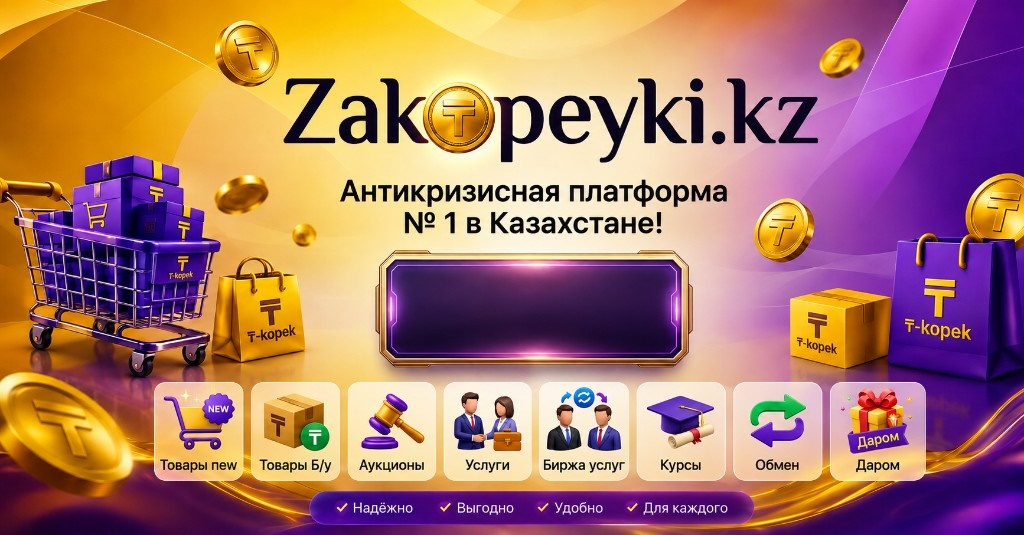
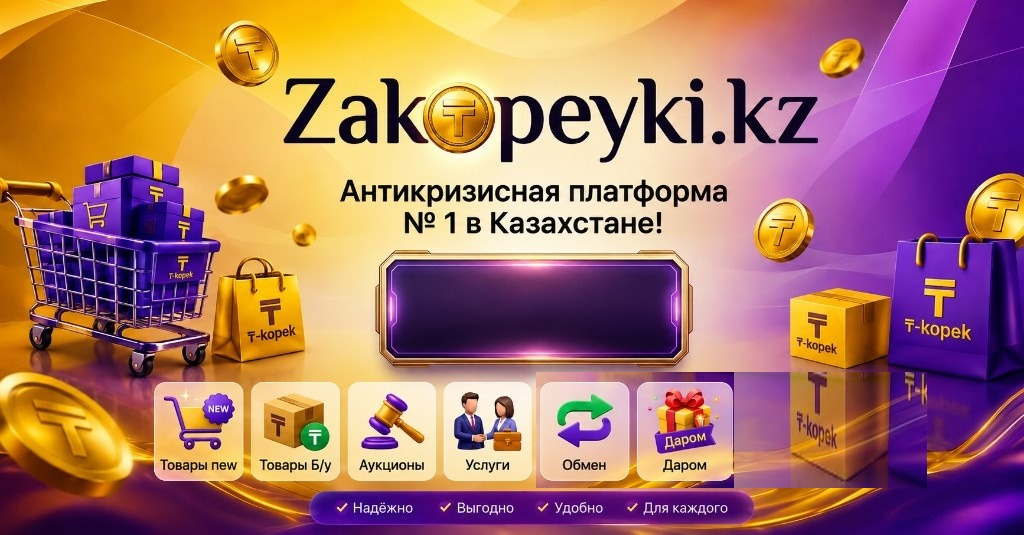
Update stub opening date to September 30, 2026, and adjust related views
This commit changes the stub opening date in the configuration and updates various views to reflect the new date. The AuthController, coming-soon view, and other relevant files have been modified to ensure consistency in messaging regarding the site's launch. Additionally, unnecessary access checks for gigs have been removed from the CatalogController and sidebar view, streamlining the code.

Changed region(s): [[0.5, 0.6879, 0.9062, 0.9271]]

diff --git a/app/Views/stub/coming-soon.php b/app/Views/stub/coming-soon.php
@@ -3,7 +3,7 @@
 use App\Helpers\ProductHelper;
 
 $heroUrl = ProductHelper::url('/public/assets/img/stub-hero.jpg');
-$opensAt = $opensAt ?? '2026-08-30 00:00:00';
+$opensAt = $opensAt ?? '2026-09-30 00:00:00';
 $opensTs = strtotime($opensAt) ?: (time() + 7 * 86400);
 $opensIso = date('Y-m-d\TH:i:sP', $opensTs);
 $loginUrl = ProductHelper::url('/login');
@@ -1203,7 +1203,7 @@ body.debug .hit {
                     <span class="cd-lbl">секунд</span>
                   </div>
                 </div>
-                <p class="cd-note">30 августа откроется сайт</p>
+                <p class="cd-note">30 сентября откроется сайт</p>
               </div>
             </div>
 
@@ -1223,9 +1223,8 @@ body.debug .hit {
                 <button type="button" class="hit hit-cat" style="left:24.53%; top:71.00%; width:8.75%; height:19.00%" data-label="Товары Б/у" aria-label="Товары Б/у"></button>
                 <button type="button" class="hit hit-cat" style="left:33.85%; top:71.00%; width:8.75%; height:19.00%" data-label="Аукционы" aria-label="Аукционы"></button>
                 <button type="button" class="hit hit-cat" style="left:43.28%; top:71.00%; width:8.75%; height:19.00%" data-label="Услуги" aria-label="Услуги"></button>
-                <button type="button" class="hit hit-cat" style="left:52.71%; top:71.00%; width:8.75%; height:19.00%" data-label="Биржа услуг" aria-label="Биржа услуг"></button>
-                <button type="button" class="hit hit-cat" style="left:71.56%; top:71.00%; width:8.75%; height:19.00%" data-label="Обмен" aria-label="Обмен"></button>
-                <button type="button" class="hit hit-cat" style="left:80.99%; top:71.00%; width:8.75%; height:19.00%" data-label="Даром" aria-label="Даром"></button>
+                <button type="button" class="hit hit-cat" style="left:52.71%; top:71.00%; width:8.75%; height:19.00%" data-label="Обмен" aria-label="Обмен"></button>
+                <button type="button" class="hit hit-cat" style="left:62.14%; top:71.00%; width:8.75%; height:19.00%" data-label="Даром" aria-label="Даром"></button>
               </nav>
             </div>
           </div>
@@ -1252,7 +1251,7 @@ body.debug .hit {
         <p class="cta-modal__eyebrow">Ранний доступ</p>
         <p class="cta-modal__title" id="cta-modal-title">Будьте среди первых</p>
         <p class="cta-modal__sub">
-          30 августа открываем сайт. Зарегистрируйтесь заранее — и встретьте запуск во всеоружии.
+          30 сентября открываем сайт. Зарегистрируйтесь заранее — и встретьте запуск во всеоружии.
         </p>
         <a class="cta-modal__btn" href="<?= htmlspecialchars($registerUrl) ?>">
           Создать аккаунт

diff --git a/app/Views/home/index.php b/app/Views/home/index.php
@@ -71,19 +71,16 @@ $changelog = $changelog ?? null;
         <?php endif; ?>
     </div>
 
-    <div class="grid grid-cols-2 sm:grid-cols-3 <?= Auth::canAccessGigs() ? 'lg:grid-cols-7' : 'lg:grid-cols-6' ?> gap-2 sm:gap-2.5">
+    <div class="grid grid-cols-2 sm:grid-cols-3 lg:grid-cols-6 gap-2 sm:gap-2.5">
         <?php
         $cats = [
             ['url' => '/catalog/new', 'label' => t('home.cat_new'), 'tone' => 'from-blue-50 to-indigo-50', 'img' => 'cat-new.png'],
             ['url' => '/catalog/used', 'label' => t('home.cat_used'), 'tone' => 'from-orange-50 to-amber-50', 'img' => 'cat-used.png'],
             ['url' => '/auctions', 'label' => t('home.cat_auctions'), 'tone' => 'from-accent-50 to-orange-50', 'img' => 'cat-auctions.png'],
             ['url' => '/catalog/services', 'label' => t('home.cat_services'), 'tone' => 'from-slate-50 to-brand-50', 'img' => 'cat-services.png'],
+            ['url' => '/catalog/exchange', 'label' => t('home.cat_exchange'), 'tone' => 'from-brand-50 to-sky-50', 'img' => 'cat-exchange.png'],
+            ['url' => '/catalog/free', 'label' => t('home.cat_free'), 'tone' => 'from-sky-50 to-blue-50', 'img' => 'cat-free.png'],
         ];
-        if (Auth::canAccessGigs()) {
-            $cats[] = ['url' => '/catalog/gigs', 'label' => t('home.cat_gigs'), 'tone' => 'from-teal-50 to-emerald-50', 'img' => 'cat-gigs.png'];
-        }
-        $cats[] = ['url' => '/catalog/exchange', 'label' => t('home.cat_exchange'), 'tone' => 'from-brand-50 to-sky-50', 'img' => 'cat-exchange.png'];
-        $cats[] = ['url' => '/catalog/free', 'label' => t('home.cat_free'), 'tone' => 'from-sky-50 to-blue-50', 'img' => 'cat-free.png'];
         foreach ($cats as $c): ?>
             <a href="<?= ProductHelper::url($c['url']) ?>" class="group min-w-0 bg-gradient-to-br <?= $c['tone'] ?> dark:from-white/[0.06] dark:to-white/[0.02] px-1.5 py-3 sm:px-2 sm:py-3.5 rounded-2xl border border-black/[0.05] dark:border-white/10 text-center hover:border-brand-400/50 hover:shadow-soft hover:-translate-y-0.5 transition duration-300 block">
                 <span class="flex items-center justify-center mb-1 transition duration-300 group-hover:scale-110">

diff --git a/app/Views/partials/sidebar.php b/app/Views/partials/sidebar.php
@@ -46,11 +46,6 @@ $navIcon = static fn (string $name): string => IconHelper::svg($name, 'w-[18px] 
         <a href="<?= ProductHelper::url('/catalog/services') ?>" class="nav-item w-full flex items-center gap-3 px-3.5 py-2.5 text-sm rounded-xl transition <?= navClass('services', $nav) ?>">
             <?= $navIcon('wrench') ?> <span><?= htmlspecialchars(t('nav.services')) ?></span>
         </a>
-        <?php if (Auth::canAccessGigs()): ?>
-        <a href="<?= ProductHelper::url('/catalog/gigs') ?>" class="nav-item w-full flex items-center gap-3 px-3.5 py-2.5 text-sm rounded-xl transition <?= navClass('services_board', $nav) ?>">
-            <?= $navIcon('briefcase') ?> <span><?= htmlspecialchars(t('nav.services_board')) ?></span>
-        </a>
-        <?php endif; ?>
         <a href="<?= ProductHelper::url('/catalog/exchange') ?>" class="nav-item w-full flex items-center gap-3 px-3.5 py-2.5 text-sm rounded-xl transition <?= navClass('exchange', $nav) ?>">
             <?= $navIcon('exchange') ?> <span><?= htmlspecialchars(t('nav.exchange')) ?></span>
         </a>

diff --git a/app/Controllers/CatalogController.php b/app/Controllers/CatalogController.php
@@ -24,13 +24,8 @@ class CatalogController extends Controller
 
     public function show(string $section): void
     {
-        if ($section === 'courses') {
+        if ($section === 'courses' || $section === 'gigs') {
             $this->redirect('/');
-            return;
-        }
-        if ($section === 'gigs' && !Auth::canAccessGigs()) {
-            http_response_code(404);
-            $this->view('errors/404', ['title' => t('catalog.not_found')]);
             return;
         }
         if (!isset($this->pages[$section])) {

diff --git a/app/Controllers/AuthController.php b/app/Controllers/AuthController.php
@@ -209,7 +209,7 @@ class AuthController extends Controller
 
         $appConfig = $GLOBALS['appConfig'] ?? [];
         if (!empty($appConfig['stub_mode']) && !Auth::hasSiteAccess()) {
-            $_SESSION['stub_flash'] = 'Регистрация прошла успешно! Мы откроемся 30 августа.';
+            $_SESSION['stub_flash'] = 'Регистрация прошла успешно! Мы откроемся 30 сентября.';
             $this->redirect('/');
         }
 

diff --git a/index.php b/index.php
@@ -90,7 +90,7 @@ if (!empty($appConfig['stub_mode']) && !\App\Core\Auth::hasSiteAccess(true)) {
     if (!$stubOk) {
         \App\Core\View::render('stub/coming-soon', [
             'title' => 'Скоро открытие',
-            'opensAt' => (string) ($appConfig['stub_opens_at'] ?? '2026-08-06 00:00:00'),
+            'opensAt' => (string) ($appConfig['stub_opens_at'] ?? '2026-09-30 00:00:00'),
         ], '');
         exit;
     }

diff --git a/config/app.php b/config/app.php
@@ -17,5 +17,5 @@ return [
     // Можно переключить в админке (/admin) — значение пишется в таблицу settings.
     // Fallback, если в БД ещё нет ключа stub_mode: true = закрыт.
     'stub_mode' => true,
-    'stub_opens_at' => '2026-08-30 00:00:00',
+    'stub_opens_at' => '2026-09-30 00:00:00',
 ];

diff --git a/app/Helpers/ProductHelper.php b/app/Helpers/ProductHelper.php
@@ -33,10 +33,7 @@ class ProductHelper
     public static function marketplaceTypes(): array
     {
         $types = self::TYPES;
-        unset($types['course']);
-        if (!\App\Core\Auth::canAccessGigs()) {
-            unset($types['gig']);
-        }
+        unset($types['course'], $types['gig']);
 
         return $types;
     }
